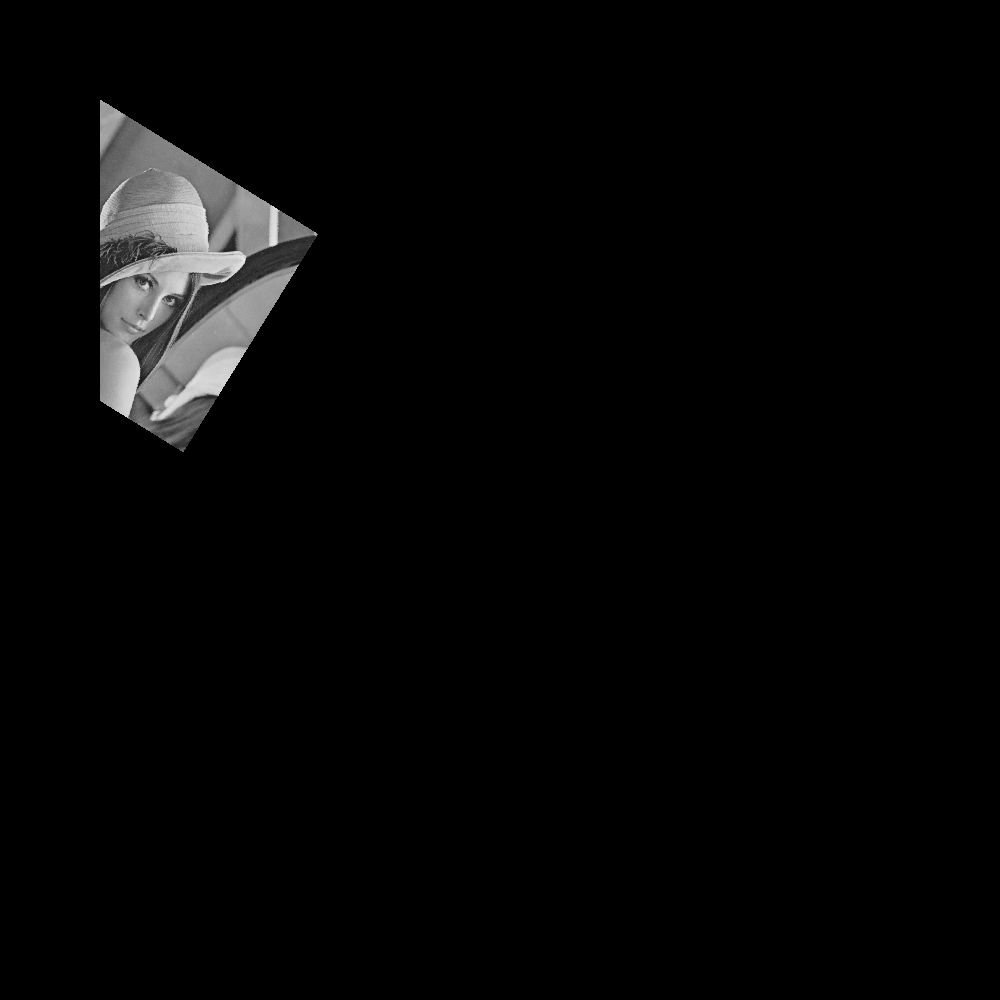
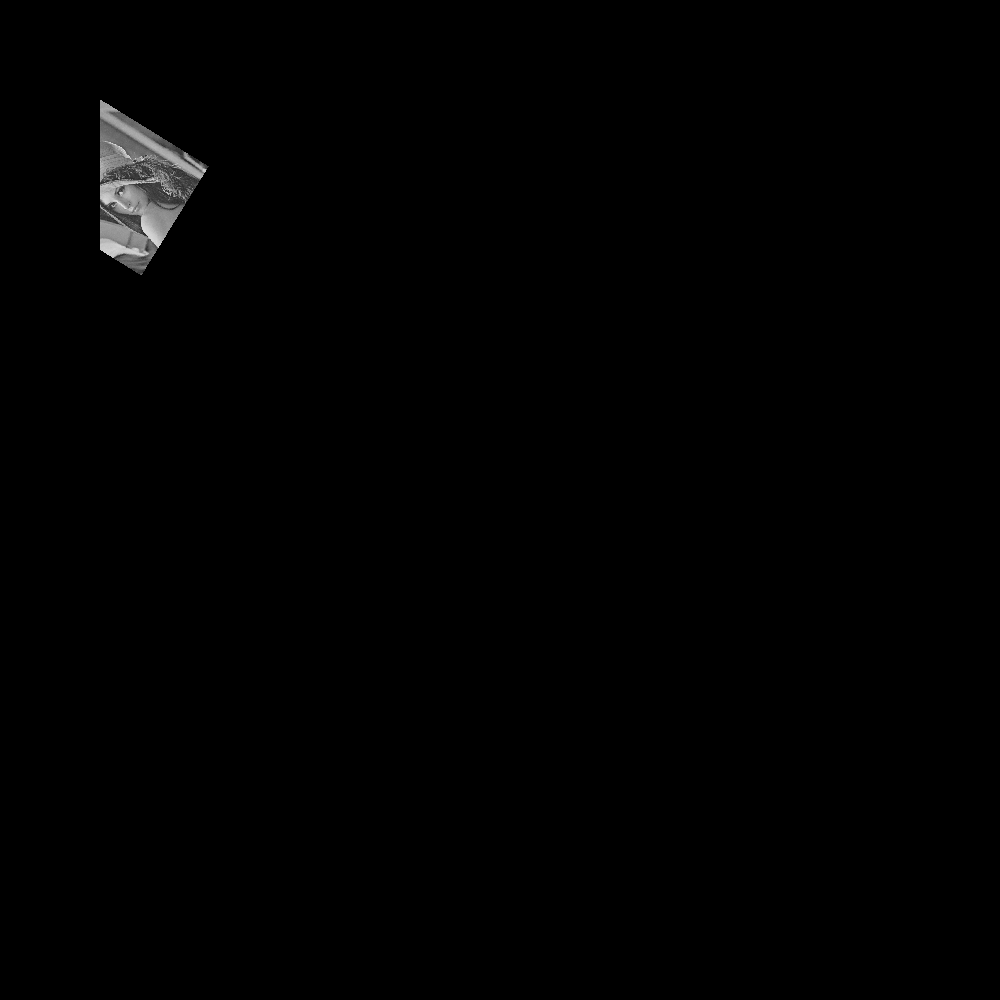
ajustes

Changed region(s): [[0.093, 0.093, 0.31, 0.465]]

diff --git a/processamento de imagem/Aula3/Atividade6/Atividade_6_1.py b/processamento de imagem/Aula3/Atividade6/Atividade_6_1.py
@@ -5,14 +5,24 @@ imglenna = Image.open('Lenna.png')
 imgLennaCinza = imglenna.convert('L')
 imgLennaCinza.show()
 
+
 img = Image.new('L', (1000, 1000) , 'BLACK')
+img2 = Image.new('L', (imgLennaCinza.size[0], imgLennaCinza.size[1]) , 'BLACK')
 
 h = imgLennaCinza.size[0]
 w = imgLennaCinza.size[1]   
+
+for linha in range(h):
+    for coluna in range(w):
+        r,g,b = imglenna.getpixel((linha, coluna))
+        pixel = int((r+g+b)/3)
+        img2.putpixel((int(coluna/2) , int(linha/2)), pixel)
+        
+img2.show()
         
 for linha in range(h):
     for coluna in range(w):
-        pixel = imgLennaCinza.getpixel((linha, coluna))
+        pixel = img2.getpixel((linha, coluna))
         Y = int(coluna * math.sin(45) + linha * math.cos(45))
         X = int((coluna * math.cos(45) - linha * math.sin(45)))
         if X < 0:
